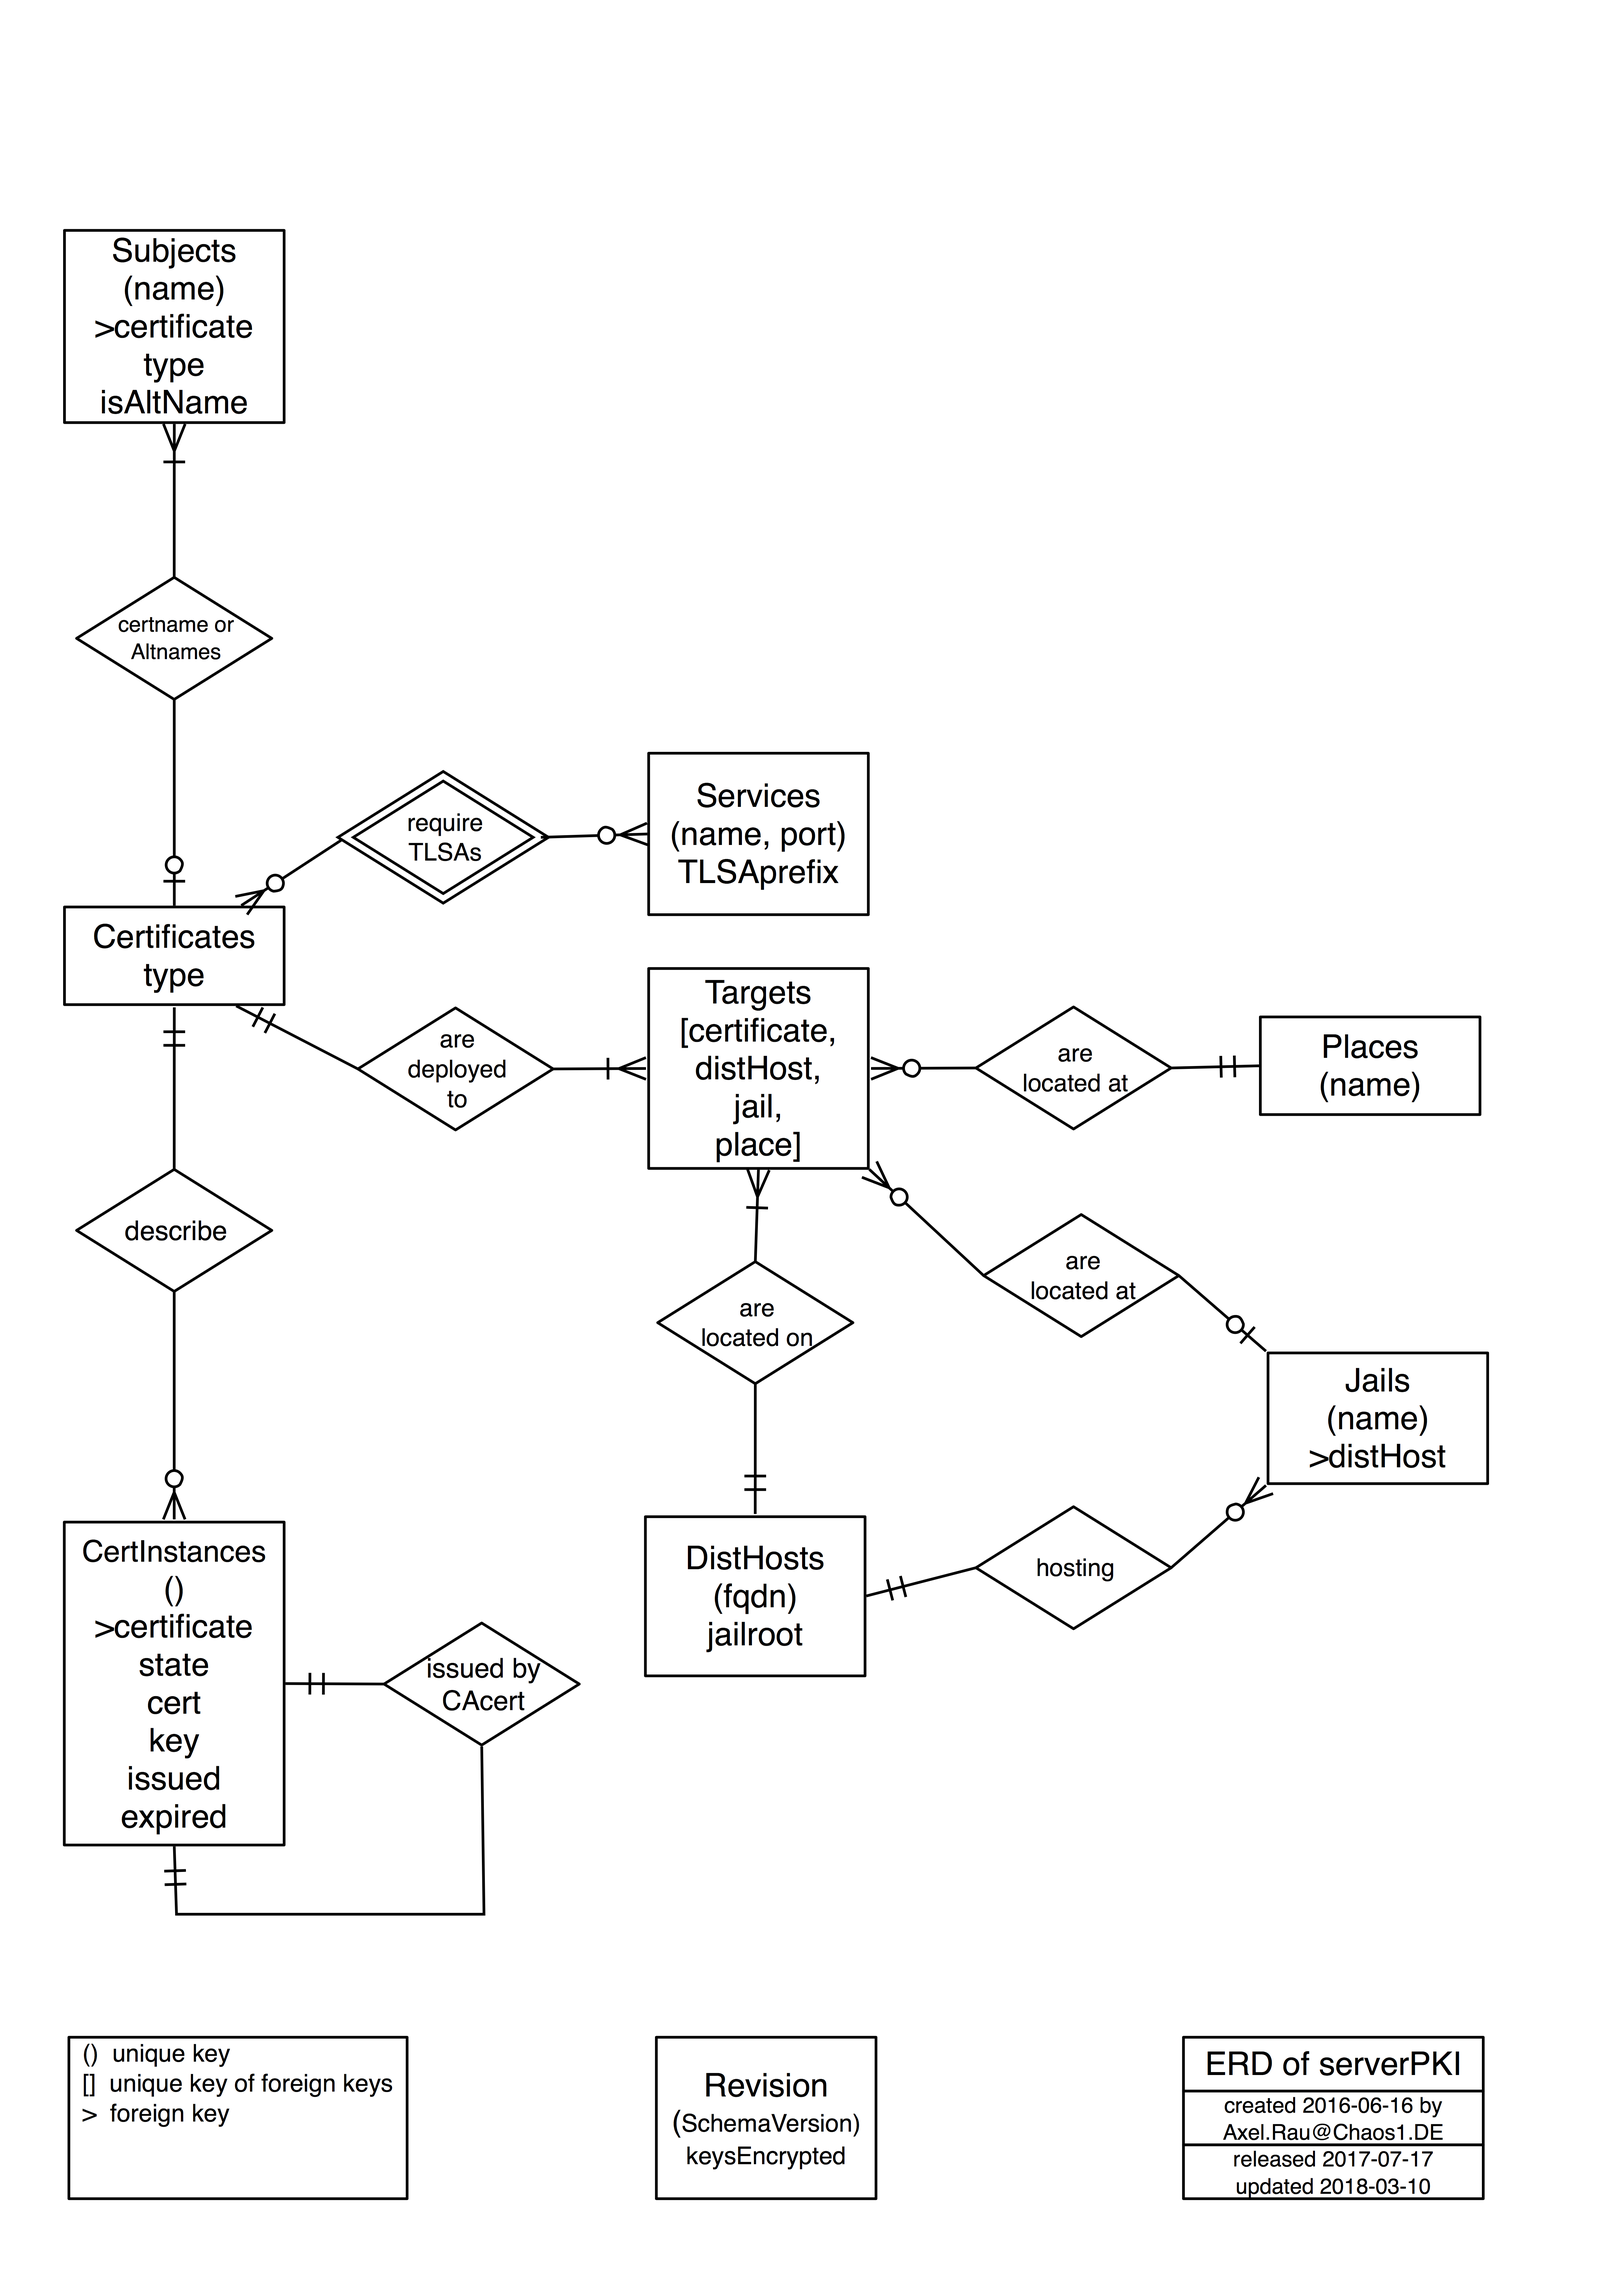
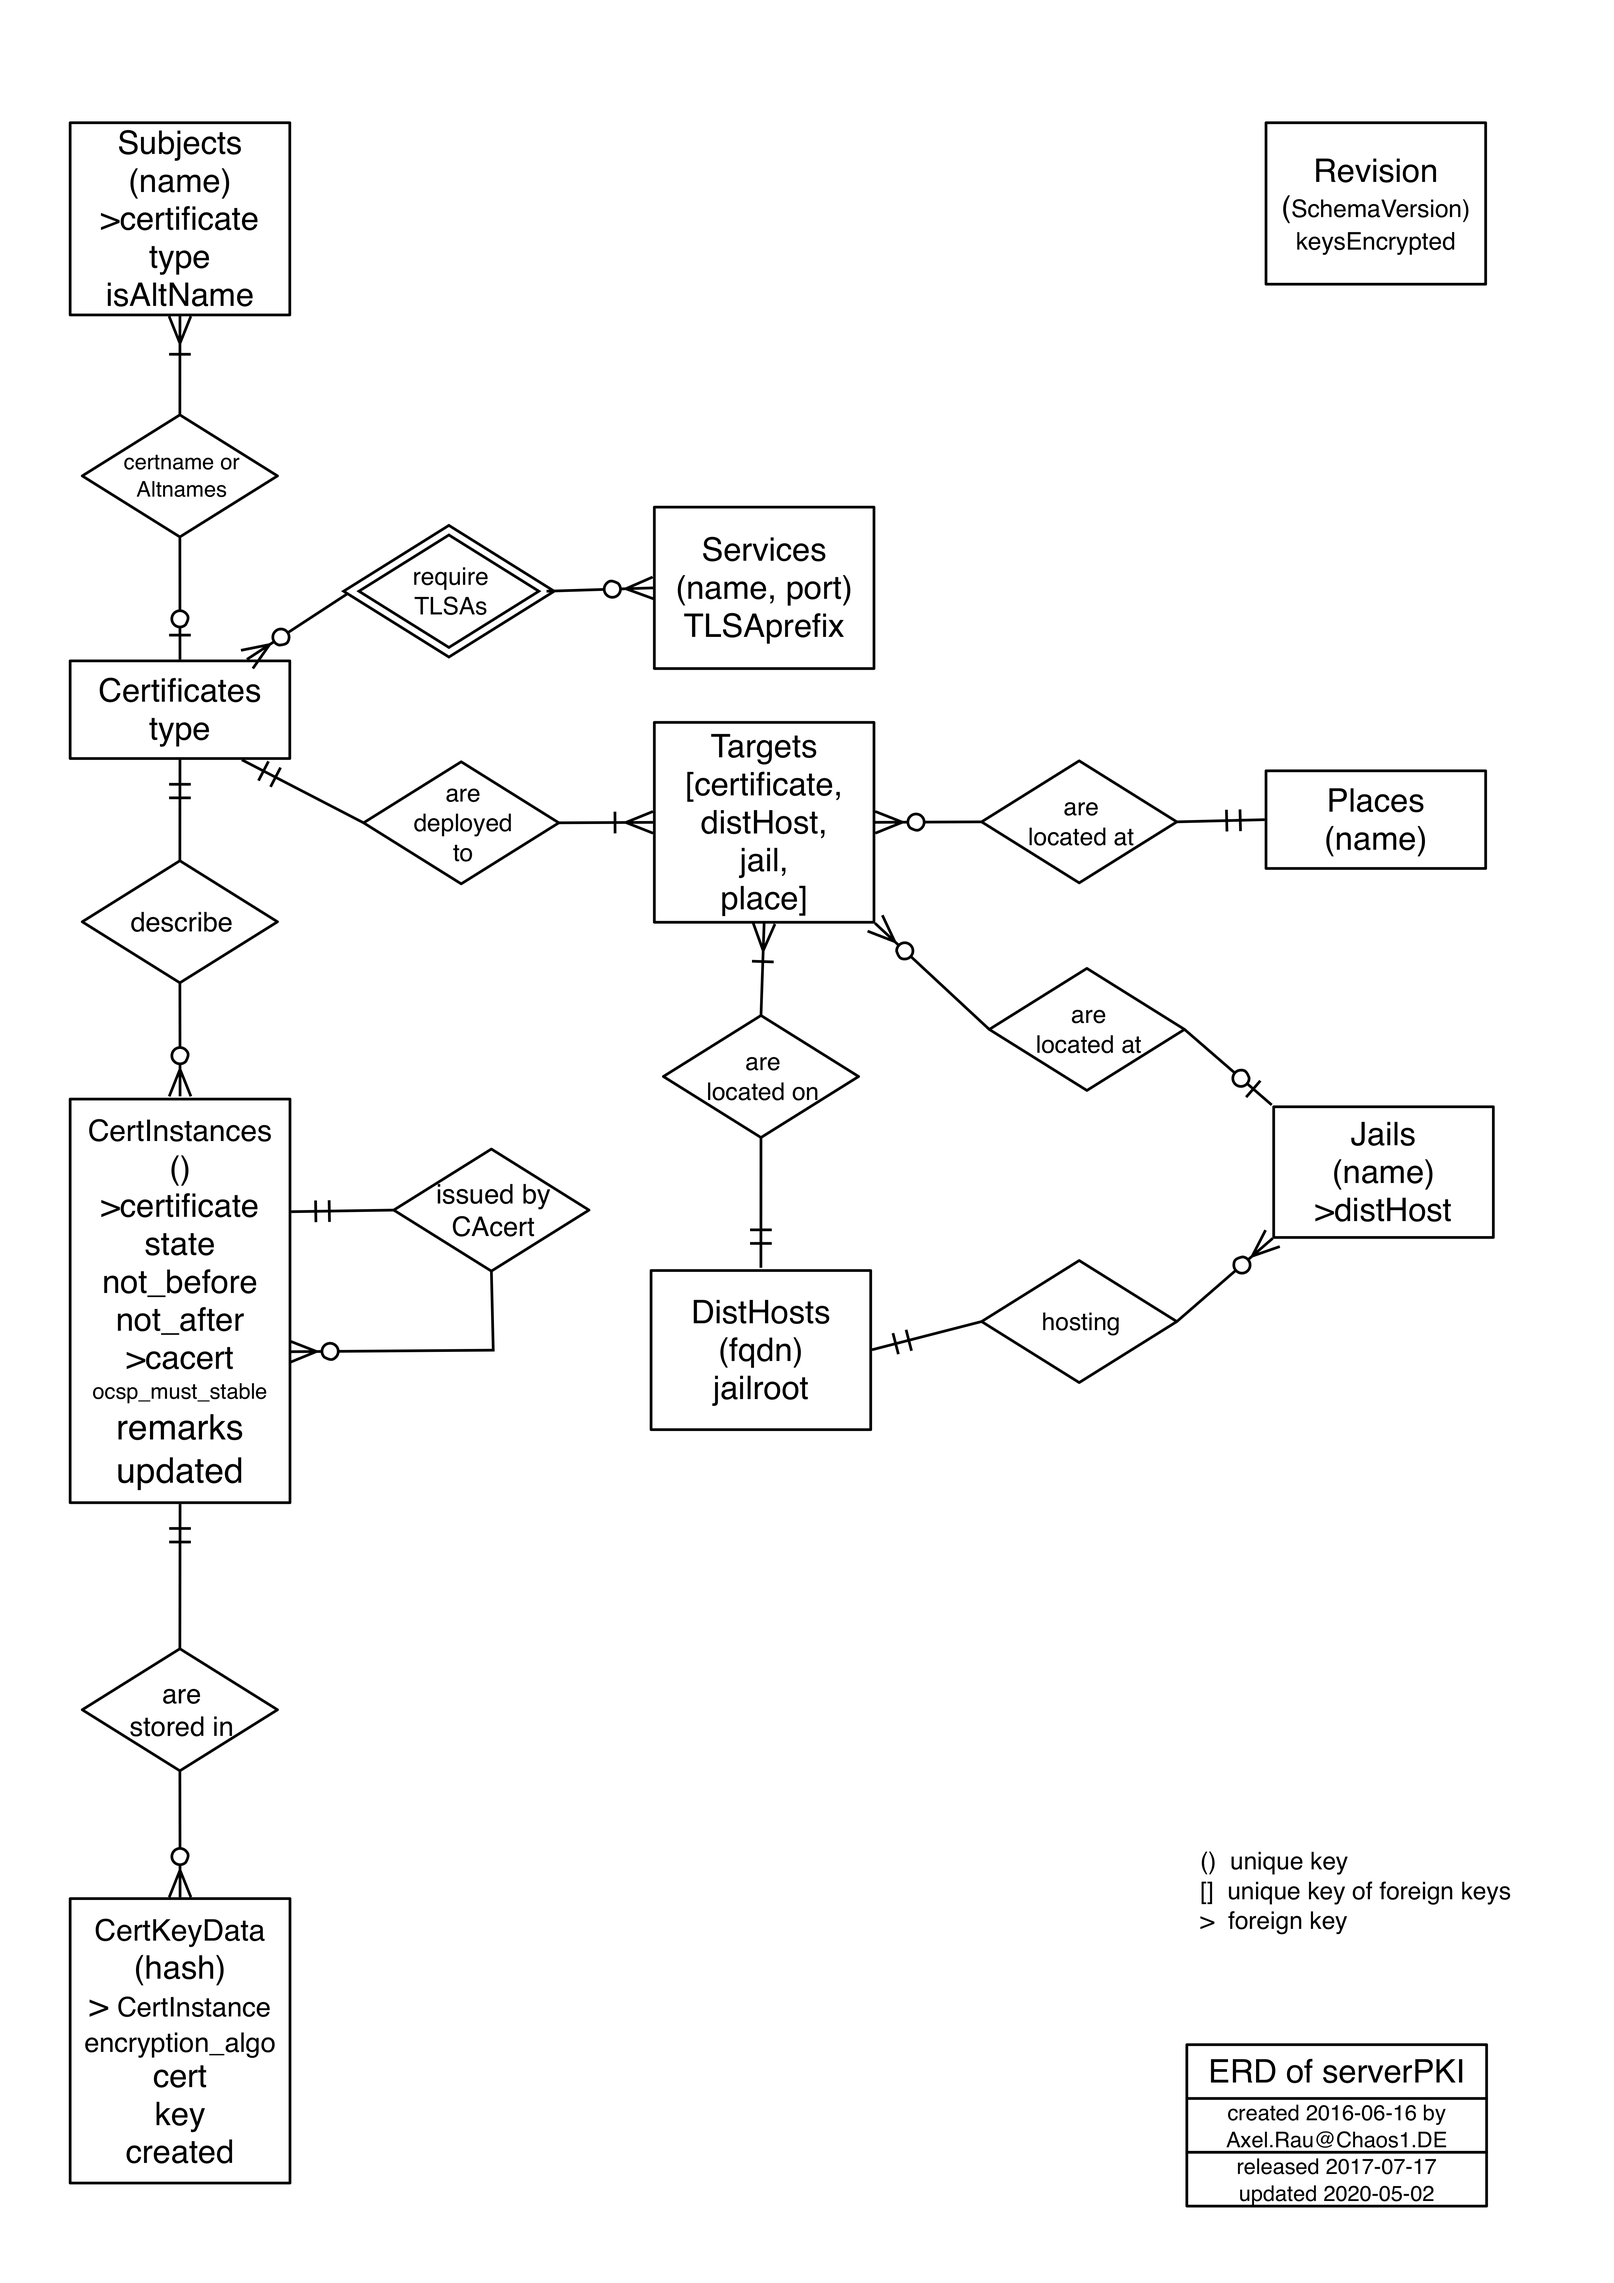
DOC: Enhanced db, installation and tutorial part. Anonymized example_config.py

diff --git a/docs/conf.py b/docs/conf.py
@@ -52,7 +52,7 @@ master_doc = 'index'
 
 # General information about the project.
 project = 'serverPKI'
-copyright = '2016-2019, Axel Rau'
+copyright = '2016-2020, Axel Rau'
 author = 'Axel Rau'
 
 # The version info for the project you're documenting, acts as replacement for
@@ -90,7 +90,6 @@ todo_include_todos = False
 #
 html_theme = "sphinx_rtd_theme"
 html_theme_options = {
-    'font_size': '12px'
 }
 
 html_sidebars = {

diff --git a/docs/installation.rst b/docs/installation.rst
@@ -24,6 +24,8 @@ Installation
 
 
     host db1, port 2222, user dba and user pki_op are examples. dba must be pgsql superuser.
+    In scripts create_schema_pki.sql and create_triggers_pki.sql are GRANT statements which allow
+    usage of objects by user serverPKI. To change this, you must edit those scripts.
     Create ~/.pgpass or client cert in ~/.postgresql::
 
      psql -h db1 -p 2222 -U dba postgres
@@ -34,7 +36,7 @@ Installation
      psql -h db1 -p 2222 -U pki_op -d pki_op -f install/fresh_install/create_extension_citext.sql
      psql -h db1 -p 2222 -U pki_op -d pki_op -f install/fresh_install/create_schema_pki.sql
 
-     # optional (for demo only):
+     # optional (usefull examples for demo):
      psql -h db1 -p 2222 -U pki_op -d pki_op -f install/fresh_install/load_testdata.sql
 
      psql -h db1 -p 2222 -U pki_op -d pki_op -f install/fresh_install/create_triggers_pki.sql
@@ -46,30 +48,30 @@ Installation
                         List of relations
       Schema |         Name          |   Type   |   Owner
      --------+-----------------------+----------+-----------
-      pki    | certificates          | table    | serverPKI
-      pki    | certificates_id_seq   | sequence | serverPKI
-      pki    | certificates_services | table    | serverPKI
-      pki    | certinstances         | table    | serverPKI
-      pki    | certinstances_id_seq  | sequence | serverPKI
-      pki    | certkeydata           | table    | serverPKI
-      pki    | certkeydata_id_seq    | sequence | serverPKI
-      pki    | certs                 | view     | serverPKI
-      pki    | certs_ids             | view     | serverPKI
-      pki    | disthosts             | table    | serverPKI
-      pki    | disthosts_id_seq      | sequence | serverPKI
-      pki    | inst                  | view     | serverPKI
-      pki    | jails                 | table    | serverPKI
-      pki    | jails_id_seq          | sequence | serverPKI
-      pki    | places                | table    | serverPKI
-      pki    | places_id_seq         | sequence | serverPKI
-      pki    | revision              | table    | serverPKI
-      pki    | revision_id_seq       | sequence | serverPKI
-      pki    | services              | table    | serverPKI
-      pki    | services_id_seq       | sequence | serverPKI
-      pki    | subjects              | table    | serverPKI
-      pki    | subjects_id_seq       | sequence | serverPKI
-      pki    | targets               | table    | serverPKI
-      pki    | targets_id_seq        | sequence | serverPKI
+      pki    | certificates          | table    | pki_op
+      pki    | certificates_id_seq   | sequence | pki_op
+      pki    | certificates_services | table    | pki_op
+      pki    | certinstances         | table    | pki_op
+      pki    | certinstances_id_seq  | sequence | pki_op
+      pki    | certkeydata           | table    | pki_op
+      pki    | certkeydata_id_seq    | sequence | pki_op
+      pki    | certs                 | view     | pki_op
+      pki    | certs_ids             | view     | pki_op
+      pki    | disthosts             | table    | pki_op
+      pki    | disthosts_id_seq      | sequence | pki_op
+      pki    | inst                  | view     | pki_op
+      pki    | jails                 | table    | pki_op
+      pki    | jails_id_seq          | sequence | pki_op
+      pki    | places                | table    | pki_op
+      pki    | places_id_seq         | sequence | pki_op
+      pki    | revision              | table    | pki_op
+      pki    | revision_id_seq       | sequence | pki_op
+      pki    | services              | table    | pki_op
+      pki    | services_id_seq       | sequence | pki_op
+      pki    | subjects              | table    | pki_op
+      pki    | subjects_id_seq       | sequence | pki_op
+      pki    | targets               | table    | pki_op
+      pki    | targets_id_seq        | sequence | pki_op
      (24 rows)
      
      serverpki=> \q

diff --git a/docs/tutorial.rst b/docs/tutorial.rst
@@ -6,6 +6,7 @@ Tutorial
 
 In the following examples, client certs are used as PostgreSQL authentication method.
 su is used to run the commands as user pki_op, who has the client cert installed.
+It is assumed that :ref: Configuration of serverOKI has been completed.
 
         
 Setting up encrypted key storage
@@ -71,29 +72,36 @@ Creating our first Let's Encrypt certificate
 --------------------------------------------
 
 
-.. _manuale:
-.. index:: manuale, manuale register
+.. index:: operate_serverPKI --register
 
 
 Create Letsencrypt account::
 
 
-    # cd /var/pki_op/test_CA/db
-    # manuale register -s https://acme-staging.api.letsencrypt.org some_user@some_domain
-    You're about to register a new account with the e-mail some_user@some_domain. Continue? [Y/n] Y
+    su -l pki_op -c '/usr/local/py_venv/pki_op_p38/bin/operate_serverPKI -v --register'
+    [Using config file /usr/local/py_venv/pki_op_p38/etc/serverpki.conf]
+    [operateCA [pki_op-0.9.10] started with options register verbose ]
+    [43 certificates and CAs ['Local CA'] in DB]
+    [Registering a new Let's Encrypt Account.
+     With URI:https://acme-staging-v02.api.letsencrypt.org
+     and e-mail admin@example.org]
+    Candango Automatoes 0.9.4. Manuale replacement.
+
+
+    You're about to register a new account with e-mail admin@example.org as contact. Continue? [Y/n] Y
     Generating a new account key. This might take a second.
-    Key generated.
+      Key generated.
     Registering...
-    ...CryptographyDeprecationWarning: signer and verifier have been deprecated. Please use sign and verify instead.
-    This server requires you to agree to these terms:
-    https://letsencrypt.org/documents/LE-SA-v1.2-November-15-2017.pdf
+      Retrieving terms of agreement ...
+      This server requires you to agree to these terms:
+        https://letsencrypt.org/documents/LE-SA-v1.2-November-15-2017.pdf
     Agreed? [Y/n] Y
-    Updated account with agreement.
     Account https://acme-staging.api.letsencrypt.org/acme/reg/12345678 created.
     Wrote account to account.json.
 
     What next? Verify your domains with 'authorize' and use 'issue' to get new certificates.
 
+Last message can be ignored (its meaningless with serverOKI).
 
 Create meta data in the DB::
 

diff --git a/docs/db.rst b/docs/db.rst
@@ -19,7 +19,7 @@ Model
 
 .. index:: entity relation diagram, ERD, id, created, updated, remarks
 
-* The entity relation diagram shows 7 entities, related to certificates and
+* The entity relation diagram shows 10 entities, related to certificates and
   their deployment. The normalized schema has rules and triggers to ensure
   integrity.
 * Common columns - All relations have the following columns:
@@ -156,6 +156,7 @@ Here is the state transition diagram:
   * cert - the certificate in binary PEM format
   * key - the key in binary PEM format (encrypted, if DB encryption in use)
   * hash - the binascii presentation of the SHA256 hash of the certificate
+  * *certinstance* - reference to cert in Certinstances
 
 
 .. index:: Services.name, Services.port, Services.TLSAprefix, services
@@ -328,10 +329,10 @@ Some views simplify common queries. For each view the result columns are listed.
   * state - :ref:`State of instance <Certinstances.state>`
   * cacert - reference to cacert instance in Certinstances, describing
     CA which issued this cert
-  * ocsp_must_staple - if true then the OCSP staple protocoll will be required by the cert
+  * ocsp_must_staple - if true then the OCSP staple protocol will be required by the cert
   * not_before - :ref:`Start date for cert usage <Certinstances.not_before>`
   * not_after - :ref:`End date for cert usage <Certinstances.not_after>`
-  * algo - :ref:`Cert encryption algorithm <CertKeyData.encryption_algo>`
+  * encryption_algo - :ref:`Cert encryption algorithm <CertKeyData.encryption_algo>`
   * hash - :ref:`Hash of cert <CertKeyData.hash>`
 
 
@@ -347,7 +348,7 @@ All arguments are text (mostly case insensitive [=citext]), exceptions are menti
 to omit an argument, use *null*.
 Functions may be called with select in psql::
 
-    serverpki=> select * from add_cert('test.com', 'server', 'local', 'www.test.com', NULL, NULL, NULL, NULL, NULL);
+    serverpki=> select * from add_cert('test.com', 'server', 'local', 'ec', false, 'www.test.com', NULL, NULL, NULL, NULL, NULL);
                       add_cert                  
     --------------------------------------------
      (server,test.com,local,,www.test.com,,,,,)

diff --git a/docs/CHANGELOG.rst b/docs/CHANGELOG.rst
@@ -77,7 +77,7 @@ Changelog
 - New fields in DB for upcoming support of certs with elliptic alogorithm.
   (in addition to rsa). Run install/upgrade_to_2.sql in psql, connected to pki DB.
 
-0.9.9 (yet to be released)
+0.9.10 (yet to be released)
 
 - Support for dynamic DNS update mode of operation supported
 - Support for dual algo certs (rsa + ec)
